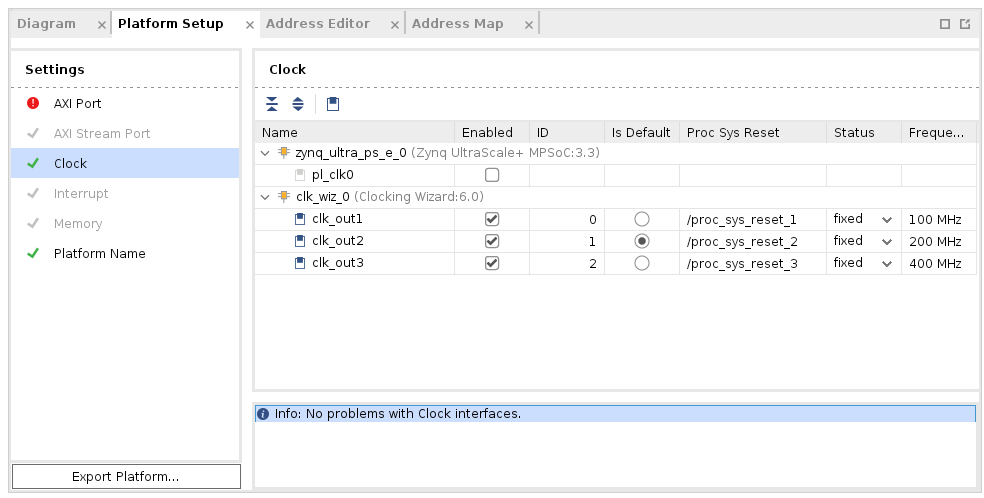
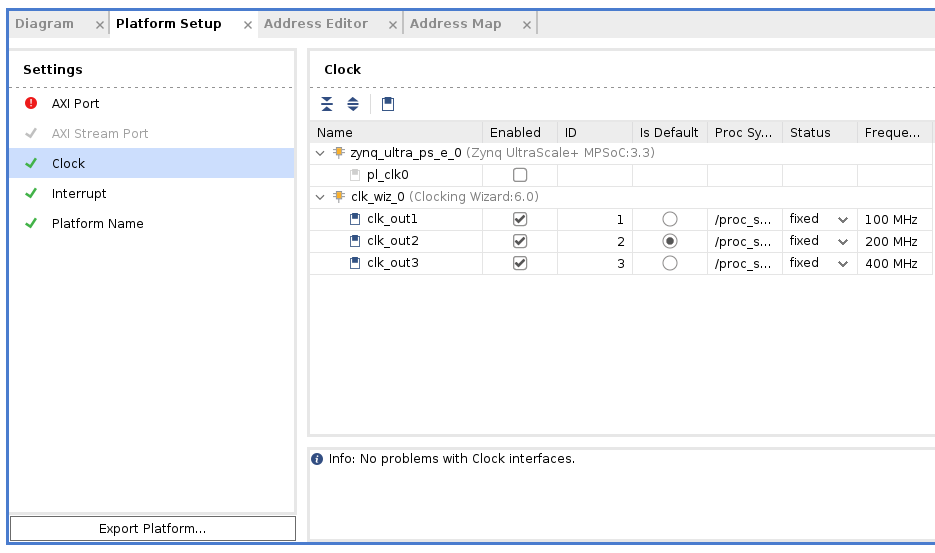
step1 updated

diff --git a/Vitis_Platform_Creation/Introduction/02-Edge-AI-ZCU104/step1.md b/Vitis_Platform_Creation/Introduction/02-Edge-AI-ZCU104/step1.md
@@ -142,8 +142,7 @@ We will add the **Clocking Wizard** to the block diagram and enable clock signal
    **Note**:
 
 
-   - Clock ID should start from 0. If there are two clocks, ID should be 0 and 1. This requirement is from v++ linker.
-   - There should be one and only one default clock in the platform. During v++ linker will use the default clock to connect the IP blocks if there are no user assignments.
+   - There should be one and only one default clock in the platform. During v++ linker will use the default clock to connect the IP blocks if there are no user assignments for link configuration.
 
 
 ### Add Interrupt Support
@@ -163,8 +162,8 @@ For simple designs, interrupt signals can be sourced by processor's **pl_ps_irq*
 
    **Note**:
    
-   - We use **AXI HPM0 LPD** mainly for controlling purpose. It only needs to read write 32 bit control registers.
-   - We reserve **AXI HPM0 FPD** and **AXI HPM1 FPD** for kernel usage. Disabling them from the block diagram can prevent auto connection to use it by accedent. We can export the unused AXI interfaces in Platform Setup, no matter it's visable or not.
+   - We use **AXI HPM0 LPD** mainly for controlling purpose. It would read and write 32 bit control registers. If the interface is more than 32, AXI Interconnect or SmartConnect will do AXI bus width conversion using PL logic. It would cost logic resource and introduce unnecessary latency.
+   - We reserve **AXI HPM0 FPD** and **AXI HPM1 FPD** for kernel usage. Disabling them from the block diagram can prevent auto connection to use it by accident. We can export the unused AXI interfaces in Platform Setup, no matter it's visible in the block diagram or not.
 
 2. Add the **AXI Interrupt Controller** and configure it
 
@@ -185,7 +184,7 @@ For simple designs, interrupt signals can be sourced by processor's **pl_ps_irq*
 
 4. Connect irq of the Interrupt Controller
 
-   - Connect axi_intc_0.irq to zynq_ultra_ps_e_0.pl_ps_irq[0:0]
+   - Connect **axi_intc_0.irq** to **zynq_ultra_ps_e_0.pl_ps_irq[0:0]**
 
    Note:
 
